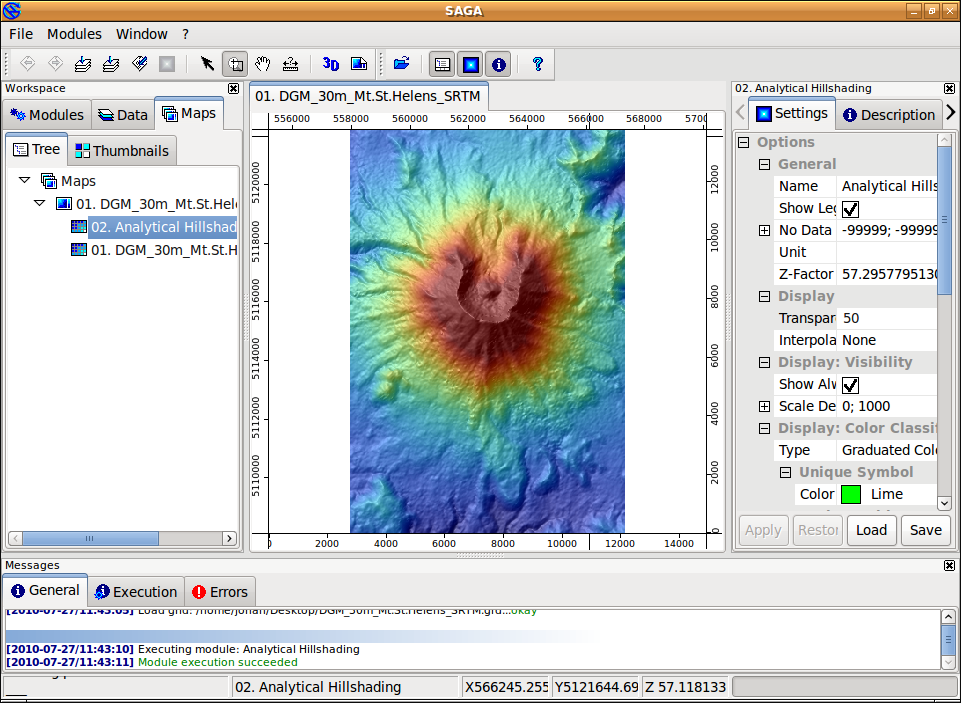
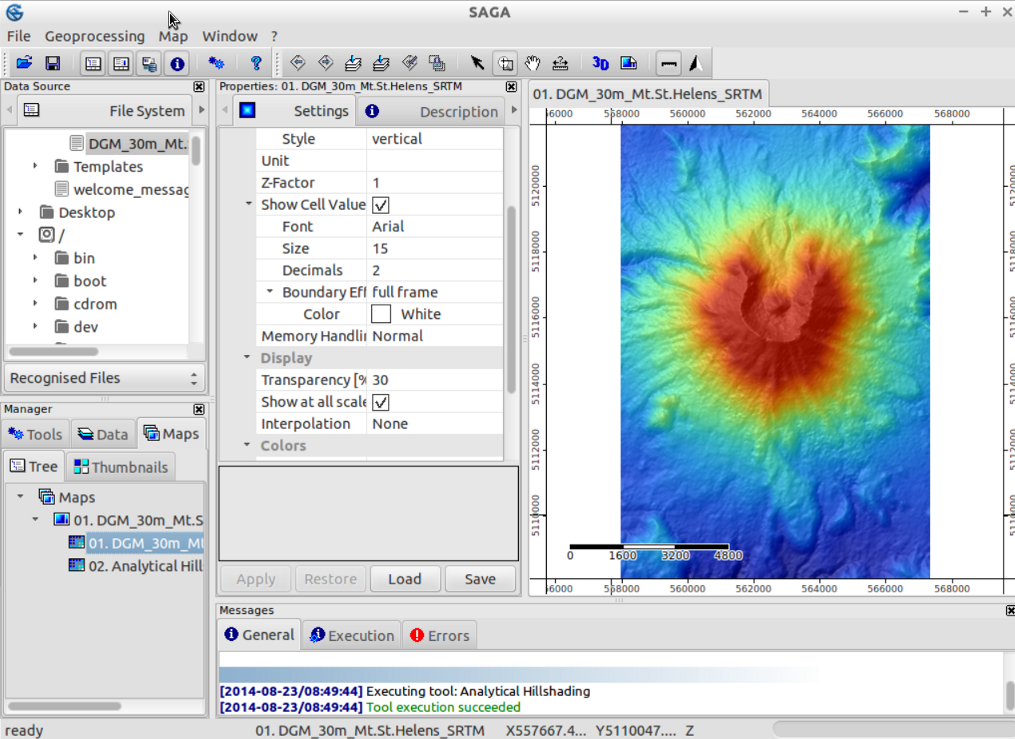
Update most parts to saga 2.1.2 in osgeo live 8
git-svn-id: http://svn.osgeo.org/osgeo/livedvd/gisvm/trunk@11959 7da46fd8-bd2a-0410-a152-cf9810cf5b10

diff --git a/doc/en/quickstart/saga_quickstart.rst b/doc/en/quickstart/saga_quickstart.rst
@@ -1,4 +1,5 @@
 :Author: Johan Van de Wauw
+:Author: Zoltan Siki
 :Reviewer: Angelos Tzotsos
 :Version: osgeo-live6.5
 :License: Creative Commons Attribution-ShareAlike 3.0 Unported  (CC BY-SA 3.0)
@@ -17,9 +18,9 @@ SAGA GIS Quickstart
 Running
 ================================================================================
 
-To run SAGA GIS on the Live DVD, click on the SAGA link on the Desktop.
+To run SAGA GIS on the Live DVD, open the Desktop GIS group on the Desktop and click on the SAGA link.
 
-When opening SAGA for the first time, you are presented with 3 subwindows: the Workspace, the object properties and the messages window. The information in the object properties window will change depending on your selection in the workspace window.
+When opening SAGA for the first time, you are presented with 3 subwindows: the Manager, the object Properties and the Messages window. The information in the object properties window will change depending on your selection in the Manager window.
 
   .. image:: ../../images/screenshots/1024x768/saga_guioverview.png
      :scale: 80
@@ -48,7 +49,7 @@ Displaying Data
 
 To display the dataset in a map view, just double click on the dataset in the Data tab of the Workspace window. A new Map window will open up with the dataset displayed. The canvas is framed: top and left the x- and y-world coordinates are displayed. Bottom and right you see rulers in map units. Move the mouse pointer over the map and watch the x-, y- and z-coordinates displayed in the bottom bar of the SAGA GUI window. The z-coordinates displayed correspond to the elevation values of the dataset (be aware that the values displayed are always those of the dataset selected in the Data or Maps tab).
 
-Now use the navigation tools to zoom and pan. The Zoom tool is selected by default. A left click on the map zooms in, a right click zooms out. Holding the left mouse button down, dragging to the opposite corner and letting the mouse button up allows you to zoom to an area of interest. If you zoom in quite a lot, you will see that the cell values are getting displayed. To pan, select the Pan tool and click and drag to move the map. Have a look at the other bottoms in the tool bar: these allow you to zoom e.g. to Full Extent.
+Now use the navigation tools to zoom and pan. The Zoom tool is selected by default. A left click on the map zooms in, a right click zooms out. Holding the left mouse button down, dragging to the opposite corner and letting the mouse button up allows you to zoom to an area of interest. If you zoom in quite a lot and turn on Show cell values on Setting tab, you will see that the cell values are getting displayed. To pan, select the Pan tool and click and drag to move the map. Have a look at the other buttons in the tool bar: these allow you to zoom e.g. to Full Extent.
 
 .. image:: ../../images/screenshots/800x600/saga_fullextent.png
 
@@ -58,15 +59,15 @@ Creating shaded relief map view
 ~~~~~~~~~~~~~~~~~~~~~~~~~~~~~~~~~~~~~~~~~~~~~~~~~~~~~~~~~~~~~~~~~~~~~~~~~~~~~~~~
 
 Let's enhance the map display by calculating a shaded relief map. Switch to
-the Modules tab of the Workspace window and click on the plus sign left to 
+the Tools tab of the Manager window and click on the triangle left to 
 the **Terrain Analysis - Lightning, Visibility** module library: the list 
-with the modules of this library will show up. Now select the Analytical Hillshading module and then select the Settings tab of the Properties window. This will show up the module parameters (also have a look at the Description tab, which will display more information about the module and it's parameters). Click in the right column of the Grid system parameter (where [not set] is displayed) and select the grid system of the Mt. St. Helens dataset. Next click into the right column of the Elevation parameter and select the dataset. Click in the right column of the Shading Method option and select Standard. Now press the Apply and then the Execute button. A new dataset containing the hillshade will be calculated.
+with the modules of this library will show up. Now select the Analytical Hillshading module and then select the Settings tab of the Properties window. This will show up the module parameters (also have a look at the Description tab, which will display more information about the module and it's parameters). Click in the right column of the Grid system parameter (where [not set] is displayed) and select the grid system of the Mt. St. Helens dataset (30; 312x 458y; 557970x 5108130y). Next click into the right column of the Elevation parameter and select the dataset. Click in the right column of the Shading Method option and select Standard. Now press the Apply and then the Execute button. A new dataset containing the hillshade will be calculated.
 
 Have a look at the Data tab of the Workspace window - you will find the newly created dataset. Double click on the 'Analytical Hillshading' dataset and select New in the dialog popping up. This will display the dataset in a new map view. After inspecting the dataset, close the Map window by selecting Close from the Window menu.
 
 Now double click on the hillshade dataset again, but select the Map containing the elevation dataset in the dialog popping up (Add layer to selected map). This will place the hillshade on top of the elevation dataset.
 
-Switch to the Maps tab of the Workspace window. You will see the entry of your map and the datasets the map is composed of. The drawing order is top to bottom. Now do a right click on the 'Analytical Hillshading' dataset and select Move To Bottom from the context menu popping up. This will change the drawing order, placing the hillshade beneath the elevation dataset (which now shows up again in the map view). Now select the elevation dataset (by left clicking) and have a look at the Settings tab of the Properties window. Find the Display section of the parameters and click in the right column of the Transparency option. Enter a value of 30 and press the Apply button. Now you will see your elevation values shaded by relief.
+Switch to the Maps tab of the Manager window. You will see on the Tree tab the entry of your map and the datasets the map is composed of. The drawing order is top to bottom. Now do a right click on the 'Analytical Hillshading' dataset and select Move To Bottom from the context menu popping up. This will change the drawing order, placing the hillshade beneath the elevation dataset (which now shows up again in the map view). Now select the elevation dataset (by left clicking) and have a look at the Settings tab of the Properties window. Find the Display section of the parameters and click in the right column of the Transparency option. Enter a value of 30 and press the Apply button. Now you will see your elevation values shaded by relief.
 
 Feel free to try other Transparency settings or even try other Shading Methods in the Analytical Hillshading module (in case you do not change the output dataset parameter, the changes will be written to the grid already created, i.e. you will see the changes in the map view immediately).
 
@@ -75,7 +76,7 @@ Feel free to try other Transparency settings or even try other Shading Methods i
 
 3D visualization
 ~~~~~~~~~~~~~~~~~~~~~~~~~~~~~~~~~~~~~~~~~~~~~~~~~~~~~~~~~~~~~~~~~~~~~~~~~~~~~~~~
-In a next step, you might like to visualize your map in 3D. Be sure your Map window is selected and press the Show 3D-View button in the tool bar. In the dialog popping up, select the grid system containing your elevation dataset and set the Mt. St. Helens dataset as the Elevation parameter. Once you press the Okay button, the 3D view of your map will show up. Hold the left mouse button pressed and move the mouse to rotate and tilt the map. Use the right mouse button to zoom in/out and shift the map. Also have a look at the tool bar of the 3D View: the buttons replicate the mouse operations and offer further functionality. To close the 3D view select the Close option from the Window menu.
+In a next step, you might like to visualize your map in 3D. Be sure your Map window is selected and press the Show 3D-View button in the tool bar. In the dialog popping up, select the grid system containing your elevation dataset and set the Mt. St. Helens dataset as the Elevation parameter. Once you press the Okay button, the 3D view of your map will show up. Hold the left mouse button pressed and move the mouse to rotate and tilt the map. Use the mouse wheel to zoom in/out and the right button to shift the map. Also have a look at the tool bar of the 3D View: the buttons replicate the mouse operations and offer further functionality. To close the 3D view select the Close option from the Window menu.
 
 .. image:: ../../images/screenshots/1024x768/saga_3d.png
     :scale: 80
@@ -84,24 +85,24 @@ Creating Contour Lines
 ================================================================================
 As a short introduction to SAGA vector capabilities, we will now generate 
 Contour Lines from the digital elevation model. This can be done by using 
-the **Shapes - Grid | Contour Lines From Grid** if you open the modules tab in the workspace, or you can equally well open the module using the menu: **Modules|Shapes|Grid|Vectorization**. Choose your grid system and grid 
+the **Shapes - Grid | Contour Lines From Grid** if you open the tools tab in the manager, or you can equally well open the module using the menu: **Geoprocessing|Shapes|Grid|Vectorization**. Choose your grid system and grid 
 (this has to be the elevation). You can leave the options as they are, but perhaps it is better to choose an equidistance of 50m instead of the standard 10m. 
 A few seconds later your contour map has been generated and you should find it back under the data tab in the workspace. Try opening your contour map in a new map. All contour lines now have the same colour, which is not that attractive. If you select your data set (in the workspace, data tab) and check the Settings in the Object Properties window, you can find a section: Display: color classification. You can change the classification from 'Unique symbol' to graduated color. Then you should still adjust the attribute which is used for this graduated color to the elevation. Press apply, and you are presented with coloured contour lines.
 
 Check your history
 ~~~~~~~~~~~~~~~~~~~~~~~~~~~~~~~~~~~~~~~~~~~~~~~~~~~~~~~~~~~~~~~~~~~~~~~~~~~~~~~~
-If you select a dataset (eg your contour lines) in the workspace tab, you can switch the object properties tab to 'history' to review which module and which options were used to create the dataset. This information is also kept when you save your files (in .hshp and .hgrd files).
+If you select a dataset (eg your contour lines) in the data tab of the manager window, you can switch the object properties tab to 'history' to review which module and which options were used to create the dataset. This information is also kept when you save your files (in .hshp and .hgrd files).
 
 .. image:: ../../images/screenshots/1024x768/saga_contour_history.png
     :scale: 80
 
 Saving data
 ================================================================================
-To save the work you have created you should open the data tab in the workspace, and right click on the file you want to save. SAGA will save grid files to its own native format (\*.sgrd) and shapefiles to the standard ESRI shapefile format (\*.shp). It is also possible to save the project, by choosing **File|Project|Save Project**. This will save all the map views and data settings, as well as offering to save the data files.
+To save the work you have created you should open the data tab in the workspace, and right click on the file you want to save. SAGA will save grid files to its own native format (\*.sgrd) and shapefiles to the standard ESRI shapefile format (\*.shp). It is also possible to save the project, by choosing **File|Project|Save Project As**. This will save all the map views and data settings, as well as offering to save the data files.
 
 Importing/Exporting data
 ================================================================================
-If you want to import or export data different modules are present. Most useful is the module: Import/Export GDAL/OGR, which can be found in the **modules|file|GDAL/OGR menu**. Using this module many raster formats can be imported, including geotiff. The same module can also be used to export data to these formats.
+If you want to import or export data different modules are present. Most useful is the module: Import/Export GDAL/OGR, which can be found in the **Geoprocessing|File|GDAL/OGR menu**. Using this module many raster formats can be imported, including geotiff. The same module can also be used to export data to these formats.
 
 .. tip:: SAGA GIS grid format is supported by GDAL since version 1.7.0. Grid Files saved by SAGA can be opened by many other programs using GDAL. However, you must open the '\*.sdat' file and not the '\*.sgrd' file.
 
